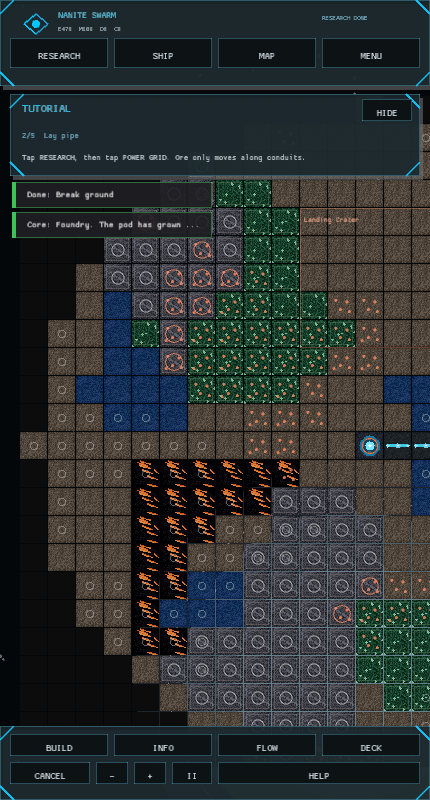
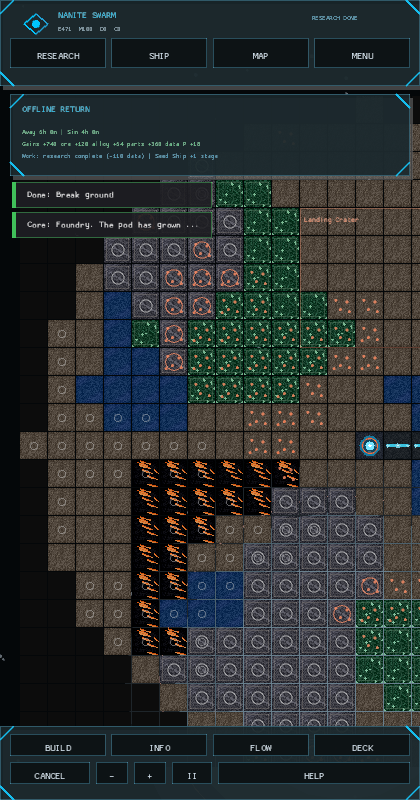
The returning swarm reports what it spent (offline progress, mobile HUD)
Mobile returns now surface a transient OFFLINE RETURN card with away and simulated time, resource gains, Data, and Seed Ship progress while leaving the command bar reachable. Desktop offline work copy now includes the Data spent when research completes, matching the report's promised accounting. Added focused report-format coverage and refreshed mobile and desktop captures.

diff --git a/src/screens/planetary_view/hud/top_bar.rs b/src/screens/planetary_view/hud/top_bar.rs
@@ -4,7 +4,7 @@ use crate::data::UiTheme;
 use crate::state::{OfflineReport, PlanetState};
 use crate::ui::{color_from_rgba, draw_hud_button, draw_hud_panel, draw_metric_card};
 use macroquad::prelude::*;
-use macroquad_toolkit::ui::draw_ui_text;
+use macroquad_toolkit::ui::{draw_ui_text, truncate_text_to_width};
 
 use super::super::format::{format_hours_minutes, format_power_delta};
 use super::super::metrics::HudMetrics;
@@ -80,7 +80,14 @@ fn mobile_status_text(
 fn offline_work_label(report: OfflineReport) -> Option<String> {
     let mut work = Vec::new();
     if report.research_completed {
-        work.push("research complete".to_string());
+        if report.research_data_spent > 0.001 {
+            work.push(format!(
+                "research complete (-{:.0} data)",
+                report.research_data_spent
+            ));
+        } else {
+            work.push("research complete".to_string());
+        }
     } else if report.research_data_spent > 0.001 {
         work.push(format!("research -{:.0} data", report.research_data_spent));
     }
@@ -108,6 +115,77 @@ fn mobile_offline_work_label(report: OfflineReport) -> &'static str {
     } else {
         ""
     }
+}
+
+fn mobile_offline_report_lines(
+    report: OfflineReport,
+    elapsed_seconds: f32,
+    simulated_seconds: f32,
+) -> [String; 3] {
+    let (off_h, off_m) = format_hours_minutes(elapsed_seconds);
+    let (sim_h, sim_m) = format_hours_minutes(simulated_seconds);
+    let capped_note = if report.capped_seconds < report.elapsed_seconds {
+        " | CAPPED"
+    } else {
+        ""
+    };
+    let clock_note = if report.tamper_guarded {
+        " | CLOCK CHECK"
+    } else {
+        ""
+    };
+    let work = offline_work_label(report).unwrap_or_else(|| "no queued work".to_string());
+    [
+        format!("Away {off_h}h {off_m}m | Sim {sim_h}h {sim_m}m{capped_note}{clock_note}"),
+        format!(
+            "Gains +{:.0} ore +{:.0} alloy +{:.0} parts +{:.0} data P {:+.0}",
+            report.minerals_gained,
+            report.alloy_gained,
+            report.components_gained,
+            report.data_gained,
+            report.power_gained
+        ),
+        format!("Work: {work}"),
+    ]
+}
+
+pub(super) fn draw_mobile_offline_report(
+    state: &PlanetState,
+    screen_w: f32,
+    metrics: HudMetrics,
+    theme: &UiTheme,
+    colors: &PanelColors,
+) -> bool {
+    if state.offline_notice_timer <= 0.0 || state.last_offline_seconds <= 0.0 {
+        return false;
+    }
+    let x = 10.0;
+    let y = metrics.top_bar_height + 8.0;
+    let width = (screen_w - 20.0).max(0.0);
+    draw_hud_panel(theme, Rect::new(x, y, width, 82.0), None);
+    draw_ui_text("OFFLINE RETURN", x + 12.0, y + 18.0, 11.0, colors.primary);
+    let text_width = (width - 24.0).max(40.0);
+    for (index, line) in mobile_offline_report_lines(
+        state.last_offline_report,
+        state.last_offline_seconds,
+        state.last_offline_simulated,
+    )
+    .iter()
+    .enumerate()
+    {
+        draw_ui_text(
+            &truncate_text_to_width(line, text_width, 8.0),
+            x + 12.0,
+            y + 40.0 + index as f32 * 12.0,
+            8.0,
+            if index == 2 {
+                colors.primary_soft
+            } else {
+                colors.success
+            },
+        );
+    }
+    true
 }
 
 #[allow(clippy::too_many_arguments)]

diff --git a/src/screens/planetary_view/hud/top_bar/tests.rs b/src/screens/planetary_view/hud/top_bar/tests.rs
@@ -1,4 +1,7 @@
-use super::{mobile_offline_work_label, mobile_status_text, offline_work_label, top_bar_layout};
+use super::{
+    mobile_offline_report_lines, mobile_offline_work_label, mobile_status_text, offline_work_label,
+    top_bar_layout,
+};
 use crate::state::OfflineReport;
 
 #[test]
@@ -34,6 +37,32 @@ fn offline_work_status_is_short_enough_for_the_mobile_header() {
         .as_deref(),
         Some("Seed Ship +2 stages")
     );
+}
+
+#[test]
+fn offline_report_keeps_data_spent_and_ship_stages_visible() {
+    let report = OfflineReport {
+        elapsed_seconds: 21_600.0,
+        capped_seconds: 14_400.0,
+        minerals_gained: 740.0,
+        alloy_gained: 120.0,
+        components_gained: 64.0,
+        data_gained: 360.0,
+        power_gained: 18.0,
+        research_data_spent: 110.0,
+        research_completed: true,
+        seed_ship_stages_completed: 1,
+        ..OfflineReport::default()
+    };
+    assert_eq!(
+        offline_work_label(report).as_deref(),
+        Some("research complete (-110 data) | Seed Ship +1 stage")
+    );
+    let lines = mobile_offline_report_lines(report, 21_600.0, 14_400.0);
+    assert_eq!(lines[0], "Away 6h 0m | Sim 4h 0m | CAPPED");
+    assert!(lines[1].contains("+360 data"));
+    assert!(lines[2].contains("-110 data"));
+    assert!(lines[2].contains("Seed Ship +1 stage"));
 }
 
 #[test]

diff --git a/src/screens/planetary_view/hud/mobile.rs b/src/screens/planetary_view/hud/mobile.rs
@@ -9,7 +9,9 @@ use crate::state::{MobilePanel, PlanetState};
 use super::super::metrics::HudMetrics;
 use super::super::PlanetaryAction;
 use super::RightStackLayout;
-use super::{build_palette, directive_panel, inspector_panel, power_ops_panel, PanelColors};
+use super::{
+    build_palette, directive_panel, inspector_panel, power_ops_panel, top_bar, PanelColors,
+};
 
 #[allow(clippy::too_many_arguments)]
 pub(super) fn draw(
@@ -25,7 +27,12 @@ pub(super) fn draw(
 ) -> PlanetaryAction {
     match state.mobile_panel {
         MobilePanel::Map => {
-            if state.tutorial_current().is_some()
+            let offline_report = !state.show_help
+                && !state.flow_overlay
+                && !state.factory_deck_open
+                && top_bar::draw_mobile_offline_report(state, screen_w, metrics, theme, colors);
+            if !offline_report
+                && state.tutorial_current().is_some()
                 && !state.tutorial_hidden
                 && !state.flow_overlay
                 && !state.factory_deck_open
